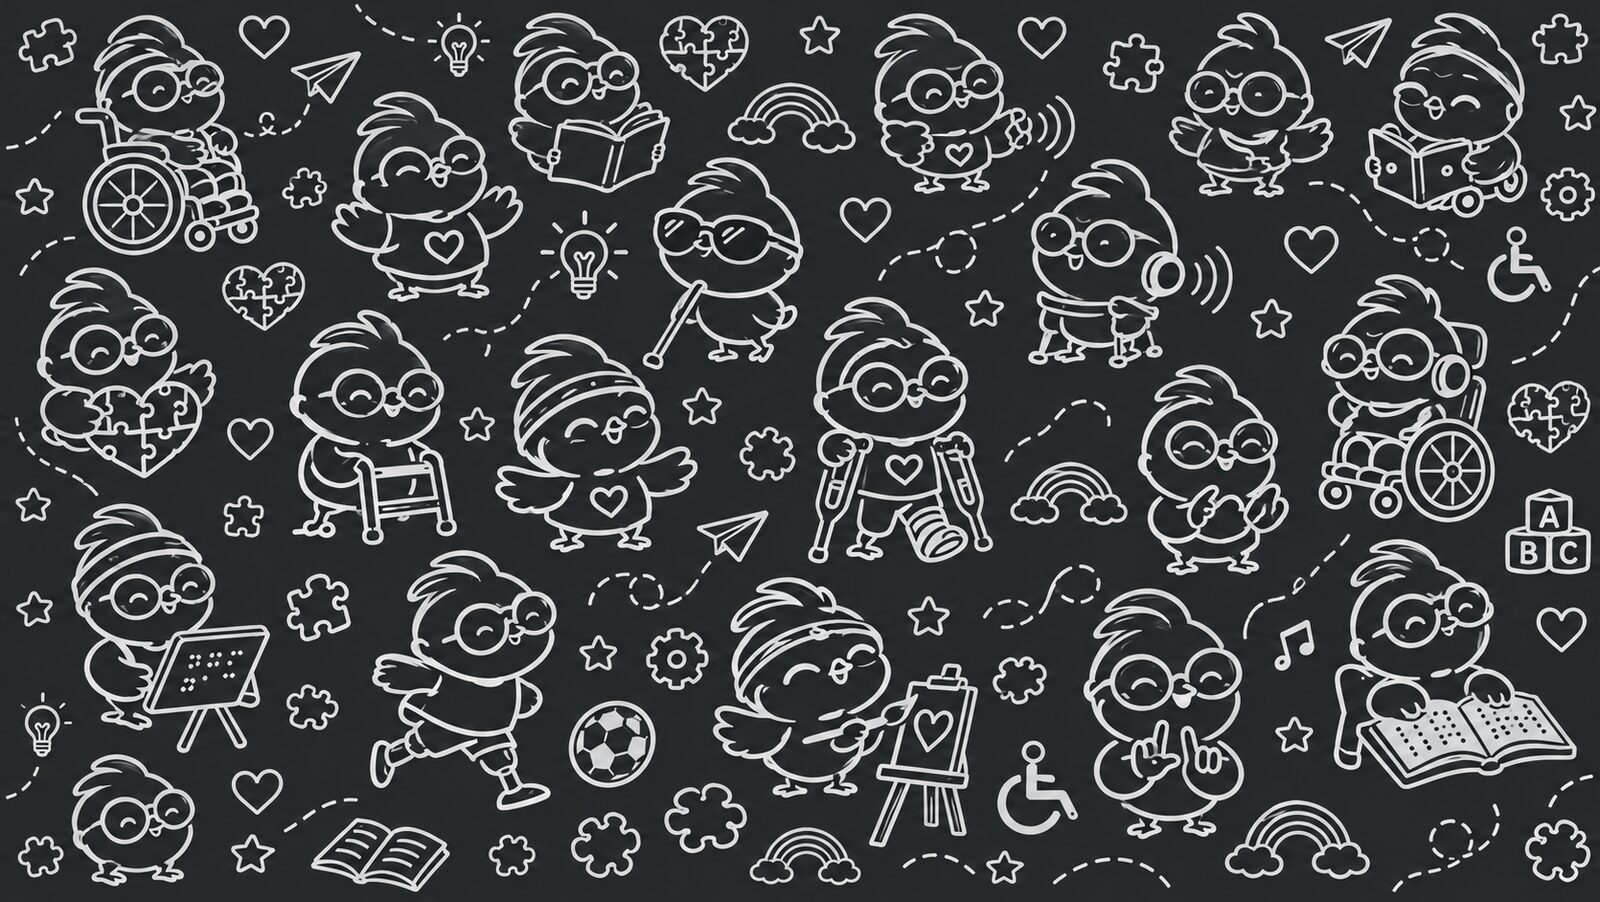
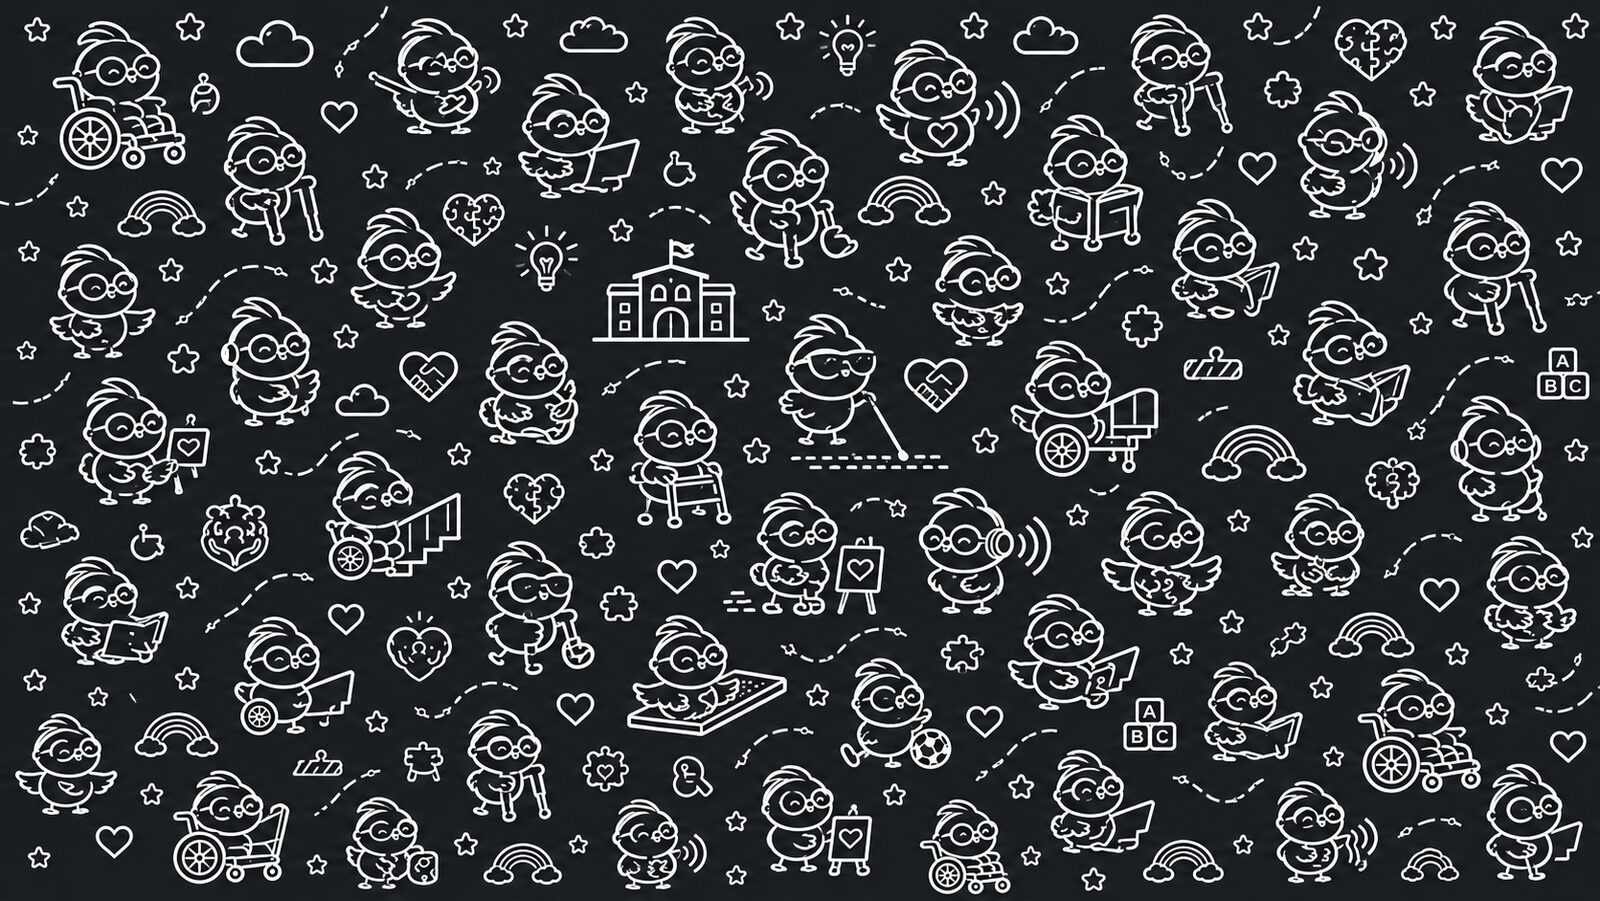
Sección de Aprendizaje con la información del MEN y nuevo fondo del login
- Nueva sección "Aprendizaje": explica el PIAR según el Ministerio (qué es, DUA,
  los anexos, tipos de ajustes razonables, el seguimiento y los pasos para
  elaborarlo) y ofrece 7 documentos oficiales del MEN para descargar (Decreto 1421,
  guía de implementación, formato e instructivo PIAR, narrativa y orientaciones).
- Nuevo fondo de pollitos inclusivos en el inicio de sesión.

Claude-Session: https://claude.ai/code/session_019MV2CimWCAjkEaFsv1m9di

diff --git a/client/src/pages/Aprendizaje.jsx b/client/src/pages/Aprendizaje.jsx
@@ -1,0 +1,111 @@
+const SECCIONES = [
+  {
+    titulo: '¿Qué es el PIAR?',
+    parrafos: [
+      'El Plan Individual de Ajustes Razonables (PIAR) es la herramienta que establece el Decreto 1421 de 2017 para garantizar el proceso de enseñanza y aprendizaje de cada estudiante con discapacidad, dentro de la educación inclusiva.',
+      'Consolida, por estudiante, las barreras que enfrenta para aprender, desarrollarse y participar, y los ajustes razonables (apoyos y estrategias) que la institución, los docentes y la familia acuerdan para eliminarlas o reducirlas.',
+    ],
+  },
+  {
+    titulo: 'Educación inclusiva y Diseño Universal para el Aprendizaje (DUA)',
+    parrafos: [
+      'El PIAR no es un currículo paralelo: es un ajuste a la planeación de aula, de área y de estudios. Los ajustes individuales se aplican después de agotar las posibilidades del Diseño Universal para el Aprendizaje (DUA).',
+      'Si el estudiante ya no requiere el PIAR porque las experiencias basadas en el DUA son suficientes, esto se justifica en el PIAR y en el informe anual de competencias.',
+    ],
+  },
+  {
+    titulo: 'Los instrumentos del PIAR (anexos)',
+    lista: [
+      'Anexo 1 — Información general del estudiante: datos personales y los entornos personal, de salud, de hogar y educativo. La información la aporta la familia en la matrícula.',
+      'Anexo 2 — Plan Individual de Ajustes Razonables: características del estudiante, y por cada área y periodo, los objetivos, las barreras, los ajustes razonables y su evaluación.',
+      'Anexo 3 — Acta de acuerdo: formaliza y recoge los compromisos de la familia y de la institución.',
+    ],
+  },
+  {
+    titulo: 'Tipos de ajustes razonables',
+    parrafos: ['Los ejemplos del Ministerio son orientativos, no generalizables; dependen de cada estudiante. Se organizan en:'],
+    lista: [
+      'En las actividades: más tiempo, demostrar la tarea, leer en voz alta, ubicación estratégica, evaluación oral.',
+      'En los materiales: alto contraste, macrotipo, material táctil o en relieve, agendas visuales, mobiliario adaptado.',
+      'En los espacios: señalización, buena iluminación, contrastes en puertas y ventanas.',
+      'En la comunicación: pictogramas, tableros de comunicación, lengua de señas.',
+      'Apoyos humanos: intérprete, modelo lingüístico, docente de apoyo, tiflólogo.',
+      'Tecnologías: lectores de pantalla, amplificadores de voz o imagen, tabletas.',
+    ],
+  },
+  {
+    titulo: 'El seguimiento',
+    parrafos: [
+      'La implementación de los ajustes debe seguirse al menos tres veces al año, de acuerdo con la periodicidad del Sistema Institucional de Evaluación de los Estudiantes (SIEE). En los colegios que manejan cuatro periodos, el seguimiento se organiza por periodo.',
+      'En cada seguimiento se evalúa el impacto del ajuste y se decide mantenerlo, modificarlo o retirarlo, dejando la observación correspondiente.',
+    ],
+  },
+  {
+    titulo: 'Pasos para elaborar el PIAR',
+    lista: [
+      '1. Conocer las orientaciones del Ministerio sobre el PIAR y los formatos.',
+      '2. Describir los entornos del estudiante (Anexo 1).',
+      '3. Realizar la valoración pedagógica, liderada por el docente de aula.',
+      '4. Identificar barreras y definir los ajustes razonables por área y periodo (Anexo 2).',
+      '5. Firmar el acta de acuerdo con la familia (Anexo 3).',
+      '6. Hacer seguimiento y registrar recomendaciones para el Plan de Mejoramiento Institucional (PMI).',
+    ],
+  },
+];
+
+const DESCARGAS = [
+  { nombre: 'Decreto 1421 de 2017', desc: 'Norma que reglamenta la atención educativa a la población con discapacidad.', url: 'https://funcionpublica.gov.co/eva/gestornormativo/norma.php?i=87040' },
+  { nombre: 'Guía para la implementación del Decreto 1421', desc: 'Guía del Comité de Discapacidad del Ministerio de Educación Nacional.', url: 'https://escuelasecretarias.dis.eafit.edu.co/sites/default/files/2022-08/GUIAPARALAIMPLEMENTACION.pdf' },
+  { nombre: 'Formato PIAR (Anexos 1, 2 y 3)', desc: 'Formato oficial de los instrumentos del PIAR.', url: 'https://www.saldarriagaconcha.org/wp-content/uploads/2019/01/Formato-PIAR.pdf' },
+  { nombre: 'Instructivo del PIAR', desc: 'Instrucciones para diligenciar los instrumentos y ejemplos de ajustes razonables.', url: 'https://www.saldarriagaconcha.org/wp-content/uploads/2019/01/Instructivo-PIAR.pdf' },
+  { nombre: 'Narrativa del PIAR', desc: 'Explicación y preguntas frecuentes sobre el PIAR.', url: 'https://www.saldarriagaconcha.org/wp-content/uploads/2019/01/Narrativa-PIAR.pdf' },
+  { nombre: 'Orientaciones para la gestión escolar inclusiva (MEN)', desc: 'Pautas del Ministerio para la transformación hacia la educación inclusiva.', url: 'https://escuelasecretarias.mineducacion.gov.co/sites/default/files/2022-08/Orientacionesparapromover.pdf' },
+  { nombre: 'Orientaciones pedagógicas (portal MEN)', desc: 'Página oficial con los documentos de orientaciones técnicas, pedagógicas y administrativas.', url: 'https://www.mineducacion.gov.co/1780/w3-article-430229.html' },
+];
+
+export default function Aprendizaje() {
+  return (
+    <div>
+      <h2 style={{ color: 'var(--gris-700)' }}>Aprendizaje — El PIAR según el Ministerio</h2>
+      <p style={{ color: 'var(--gris-600)', fontSize: 14, marginTop: 0 }}>
+        Todo lo que necesitas saber para diligenciar el PIAR, con los documentos oficiales
+        del Ministerio de Educación Nacional listos para descargar.
+      </p>
+
+      {SECCIONES.map((s) => (
+        <div className="card" key={s.titulo}>
+          <h2>{s.titulo}</h2>
+          {s.parrafos && s.parrafos.map((p, i) => (
+            <p key={i} style={{ fontSize: 14, color: 'var(--gris-900)', marginTop: i === 0 ? 0 : 10 }}>{p}</p>
+          ))}
+          {s.lista && (
+            <ul style={{ fontSize: 14, color: 'var(--gris-900)', lineHeight: 1.6, marginBottom: 0 }}>
+              {s.lista.map((li, i) => <li key={i}>{li}</li>)}
+            </ul>
+          )}
+        </div>
+      ))}
+
+      <div className="card">
+        <h2>Documentos oficiales para descargar</h2>
+        <p style={{ fontSize: 13, color: 'var(--gris-600)', marginTop: 0 }}>
+          Enlaces a los documentos del Ministerio de Educación Nacional y aliados. Se abren en una pestaña nueva.
+        </p>
+        <div className="grid">
+          {DESCARGAS.map((d) => (
+            <a key={d.nombre} href={d.url} target="_blank" rel="noopener noreferrer"
+              style={{ textDecoration: 'none' }}>
+              <div className="card" style={{ margin: 0, height: '100%', borderColor: 'var(--gris-300)' }}>
+                <div style={{ display: 'flex', justifyContent: 'space-between', alignItems: 'flex-start', gap: 8 }}>
+                  <strong style={{ color: 'var(--gris-700)', fontSize: 14 }}>{d.nombre}</strong>
+                  <span className="btn sm" style={{ whiteSpace: 'nowrap' }}>Descargar ↓</span>
+                </div>
+                <p style={{ fontSize: 13, color: 'var(--gris-600)', margin: '8px 0 0' }}>{d.desc}</p>
+              </div>
+            </a>
+          ))}
+        </div>
+      </div>
+    </div>
+  );
+}

diff --git a/client/src/App.jsx b/client/src/App.jsx
@@ -8,6 +8,7 @@ import EstudianteForm from './pages/EstudianteForm.jsx';
 import PiarDetalle from './pages/PiarDetalle.jsx';
 import Seguimiento from './pages/Seguimiento.jsx';
 import Estadisticas from './pages/Estadisticas.jsx';
+import Aprendizaje from './pages/Aprendizaje.jsx';
 import Admin from './pages/Admin.jsx';
 
 function Privada({ children }) {
@@ -28,6 +29,7 @@ export default function App() {
         <Route path="piar/:id" element={<PiarDetalle />} />
         <Route path="seguimiento" element={<Seguimiento />} />
         <Route path="estadisticas" element={<Estadisticas />} />
+        <Route path="aprendizaje" element={<Aprendizaje />} />
         <Route path="admin" element={<Admin />} />
       </Route>
       <Route path="*" element={<Navigate to="/" replace />} />

diff --git a/client/src/components/Layout.jsx b/client/src/components/Layout.jsx
@@ -30,6 +30,7 @@ export default function Layout() {
           <NavLink to="/estudiantes" className={({ isActive }) => isActive ? 'activo' : ''}>Estudiantes</NavLink>
           {esGestor && <NavLink to="/seguimiento" className={({ isActive }) => isActive ? 'activo' : ''}>Seguimiento</NavLink>}
           {esGestor && <NavLink to="/estadisticas" className={({ isActive }) => isActive ? 'activo' : ''}>Estadísticas</NavLink>}
+          <NavLink to="/aprendizaje" className={({ isActive }) => isActive ? 'activo' : ''}>Aprendizaje</NavLink>
           {['administrador', 'rector', 'superadmin'].includes(usuario.rol) &&
             <NavLink to="/admin" className={({ isActive }) => isActive ? 'activo' : ''}>Administración</NavLink>}
         </nav>
